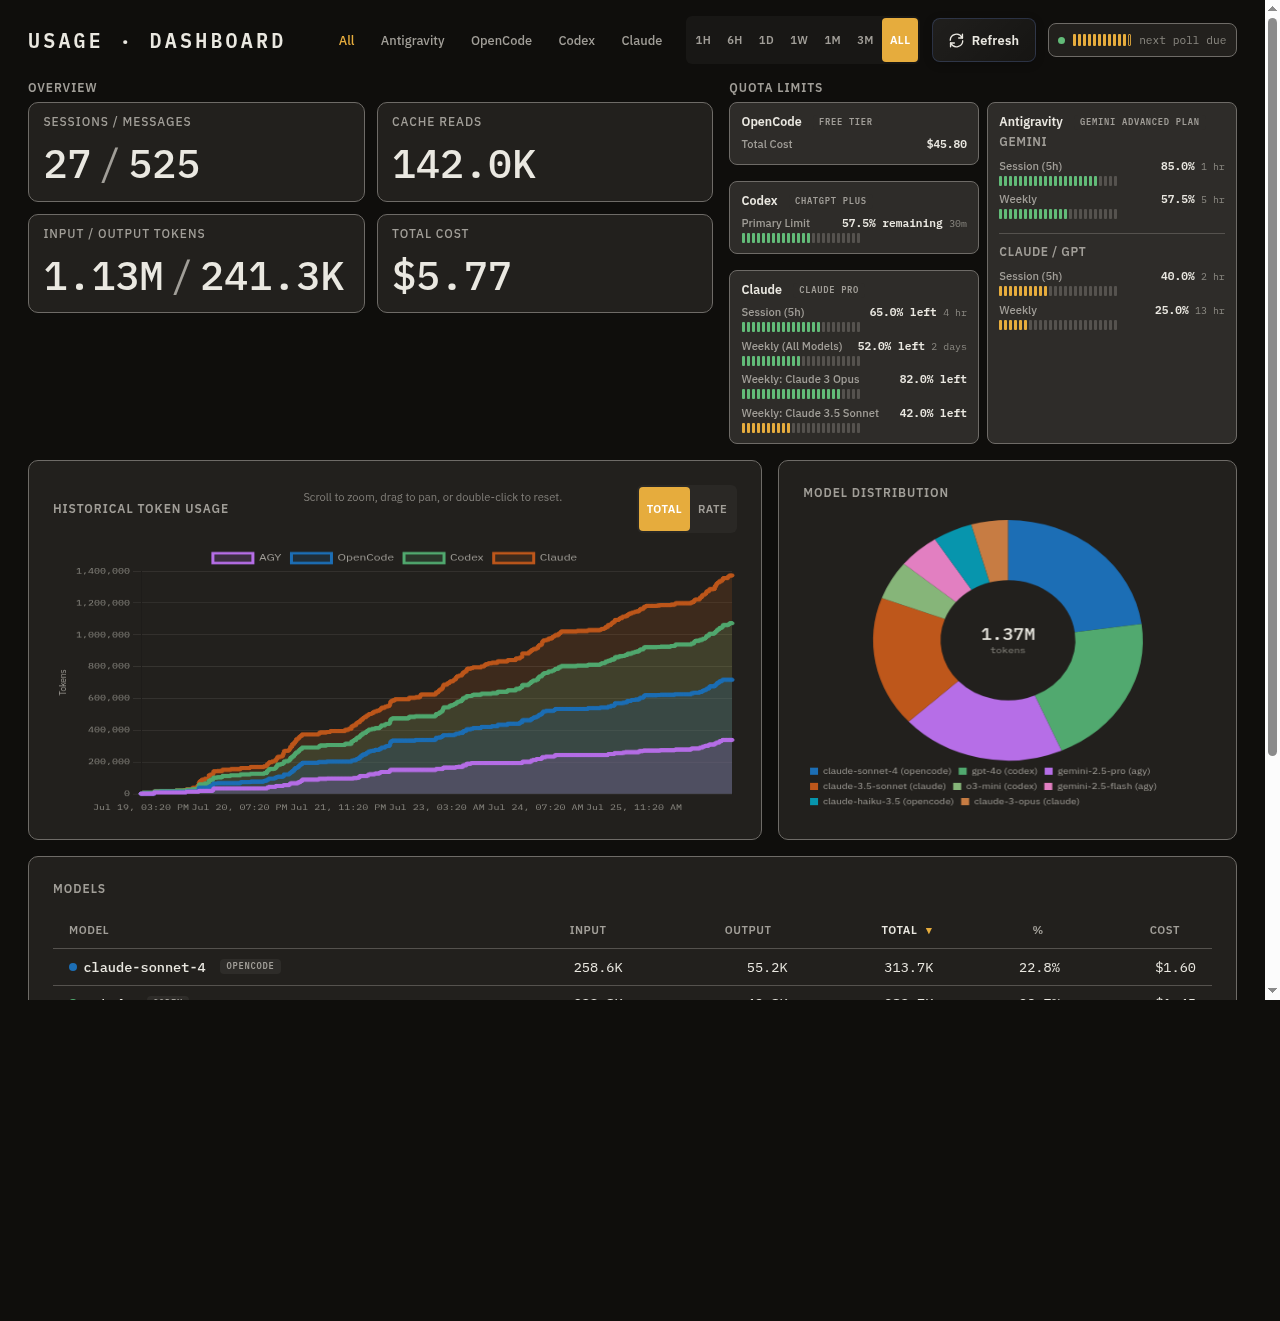
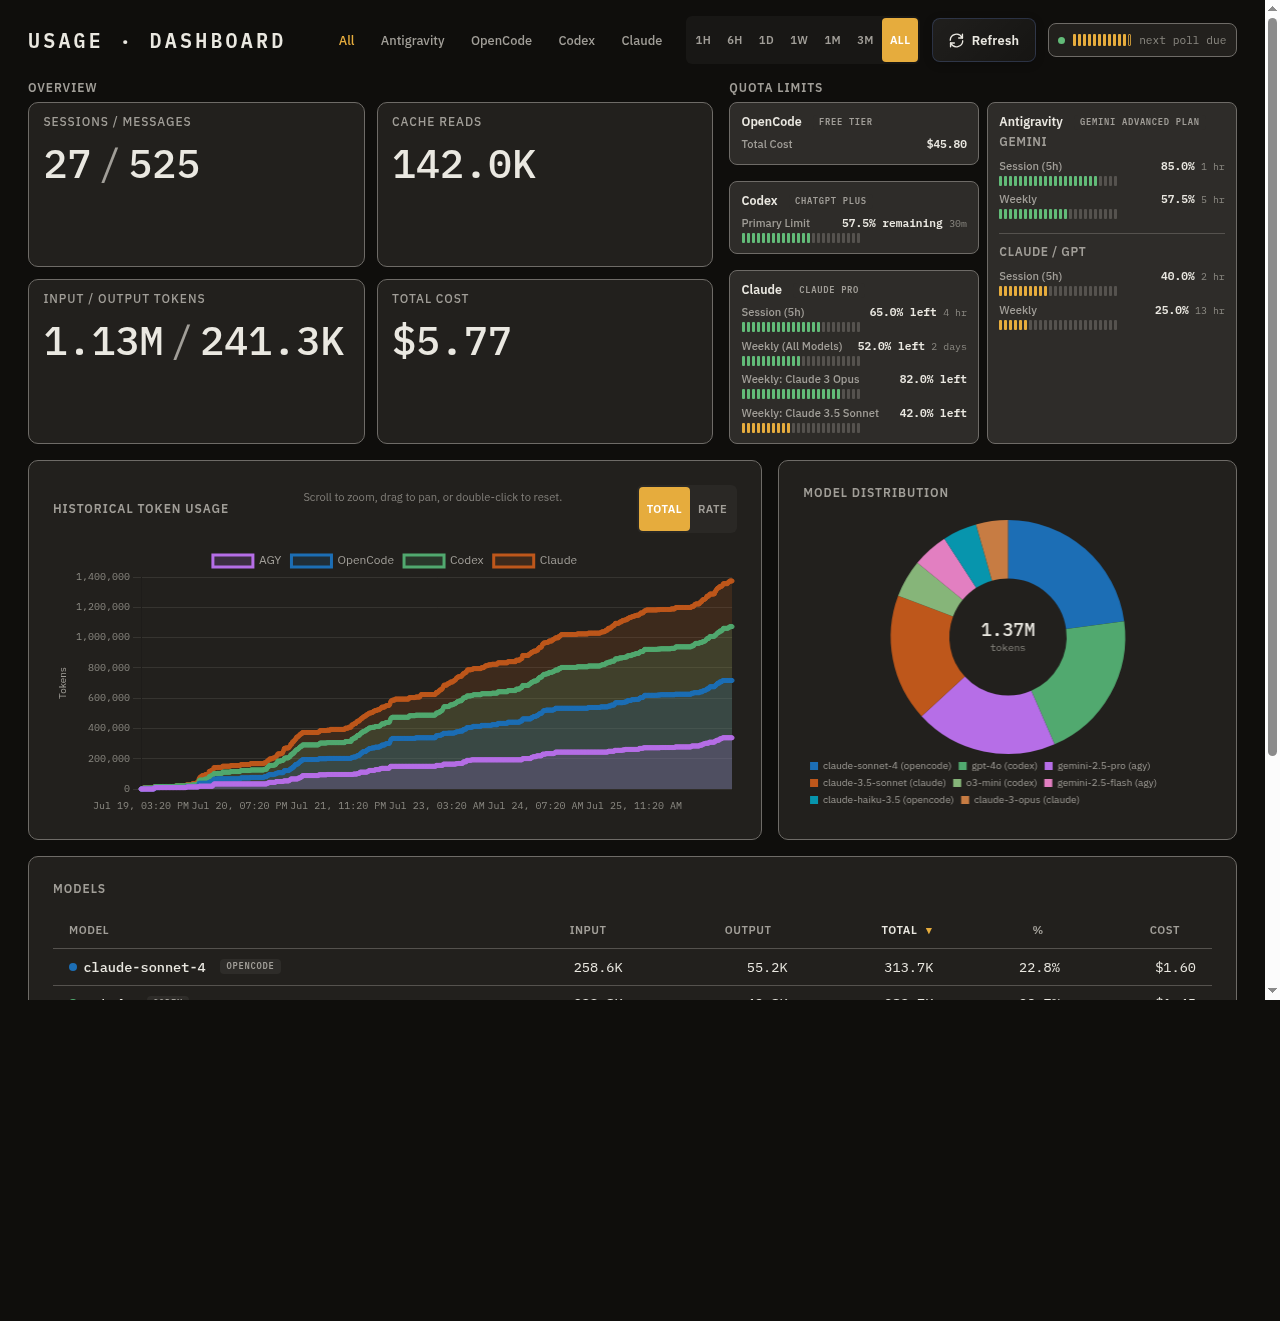
dashboard: round the donut, match overview and quota heights
The donut was rendering as an ellipse. Cause: `flex: 1` on the canvas overrode
the height Chart.js had set on it, so the bitmap and the box it was painted
into disagreed and the drawing was scaled non-uniformly:

    bitmap 460x292   box 461x257   ratio 0.879

The history chart was squashed the same way (292 -> 232), just less visibly on
a line chart. Fixed by using Chart.js's documented sizing pattern: a
relatively-positioned wrapper owns the height and the canvas fills it, so the
canvas is never resized behind Chart.js's back. Now 460x257 in 461x257,
ratio 0.998.

Overview and quota share a row and now share a height (measured 364px each):
the row stretches instead of top-aligning, the KPI grid has two equal rows, and
the cards centre their content — so the overview grows into the space it was
previously leaving empty underneath itself rather than the row being ragged.

Claude-Session: https://claude.ai/code/session_011vFJKhEbvgQC6d8udoz15S

diff --git a/frontend/index.css b/frontend/index.css
@@ -347,15 +347,15 @@
     .overview-cards {
         display: grid;
         grid-template-columns: repeat(2, 1fr);
+        grid-template-rows: repeat(2, 1fr);
         gap: 0.75rem;
-        align-items: start;
-        align-content: start;
     }
 
     .overview-cards .card {
         padding: 0.7rem 0.9rem;
         display: flex;
         flex-direction: column;
+        justify-content: center;
         justify-content: flex-start;
     }
 
@@ -1187,12 +1187,15 @@
 
     /* ── Rows ──────────────────────────────────────────────────────────────
        overview | quota      history | donut      models (full width) */
+    /* Overview and quota are one row and read as one band, so they match
+       height: the KPI cards grow into whatever the quota rail needs rather
+       than leaving a gap under themselves. */
     .stats-row {
         display: grid;
         grid-template-columns: 1.35fr 1fr;
         gap: 1rem;
         margin-bottom: 1rem;
-        align-items: start;
+        align-items: stretch;
         container-type: inline-size;
     }
 
@@ -1215,10 +1218,21 @@
         height: clamp(280px, 38vh, 400px);
     }
 
-    .chart-history canvas,
-    .chart-donut canvas {
+    /* Chart.js's documented sizing pattern: a relatively-positioned wrapper
+       owns the height, and the canvas fills it. Putting flex:1 on the canvas
+       instead makes the rendered box disagree with the bitmap Chart.js sized
+       (measured 460x292 bitmap in a 461x257 box), and the drawing is scaled
+       non-uniformly into it — which is why the donut rendered as an ellipse. */
+    .chart-canvas {
+        position: relative;
         flex: 1;
         min-height: 0;
+        width: 100%;
+    }
+
+    .chart-canvas canvas {
+        position: absolute;
+        inset: 0;
     }
 
     .models-list .table-wrapper {

diff --git a/frontend/index.html b/frontend/index.html
@@ -131,11 +131,15 @@
                             <button class="mode-btn" data-mode="rate" aria-label="Rate mode, individual line graphs">Rate</button>
                         </div>
                     </div>
-                    <canvas id="historyChart" role="img" aria-label="Historical token usage over time. The Models table below lists the same figures."></canvas>
+                    <div class="chart-canvas">
+                        <canvas id="historyChart" role="img" aria-label="Historical token usage over time. The Models table below lists the same figures."></canvas>
+                    </div>
                 </div>
                 <div class="chart-container chart-donut">
                     <h2>Model Distribution</h2>
-                    <canvas id="modelChart" role="img" aria-label="Share of tokens by model. The Models table below lists the same figures."></canvas>
+                    <div class="chart-canvas">
+                        <canvas id="modelChart" role="img" aria-label="Share of tokens by model. The Models table below lists the same figures."></canvas>
+                    </div>
                 </div>
             </section>
 
